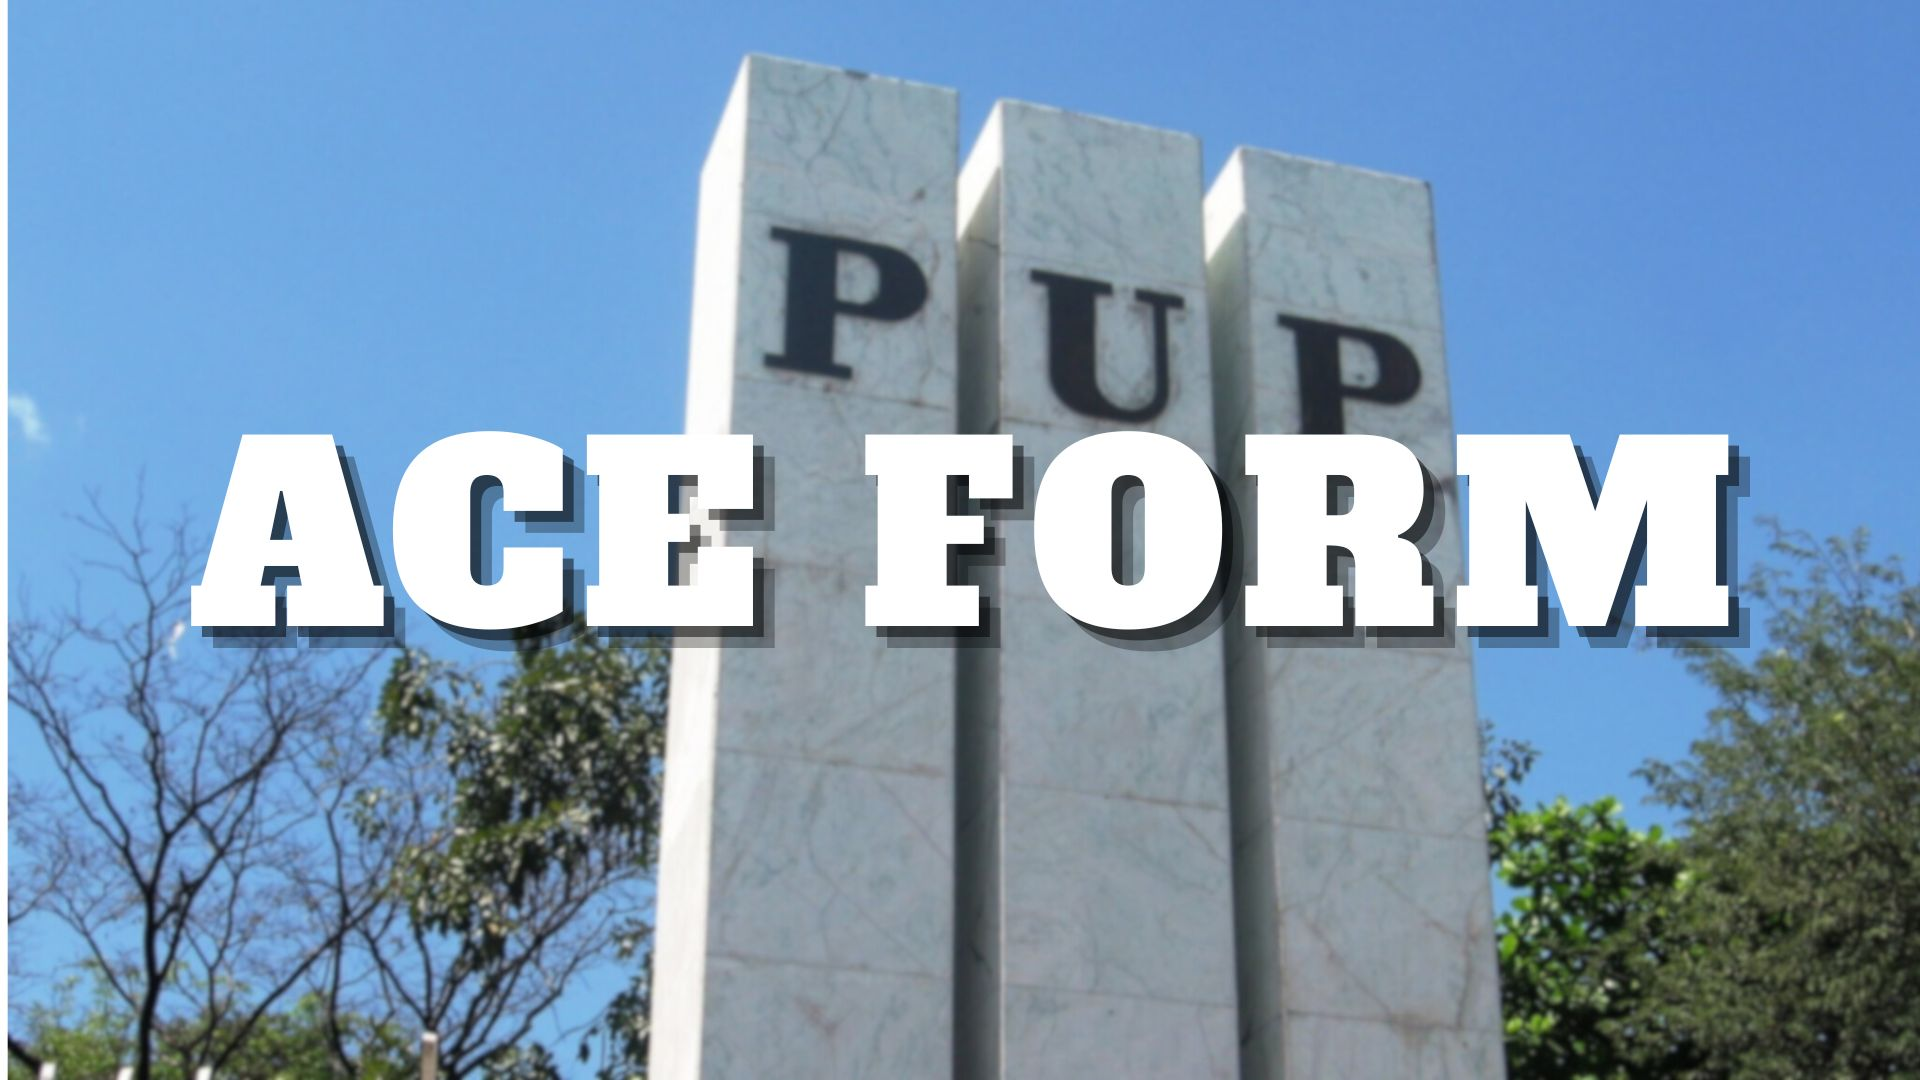
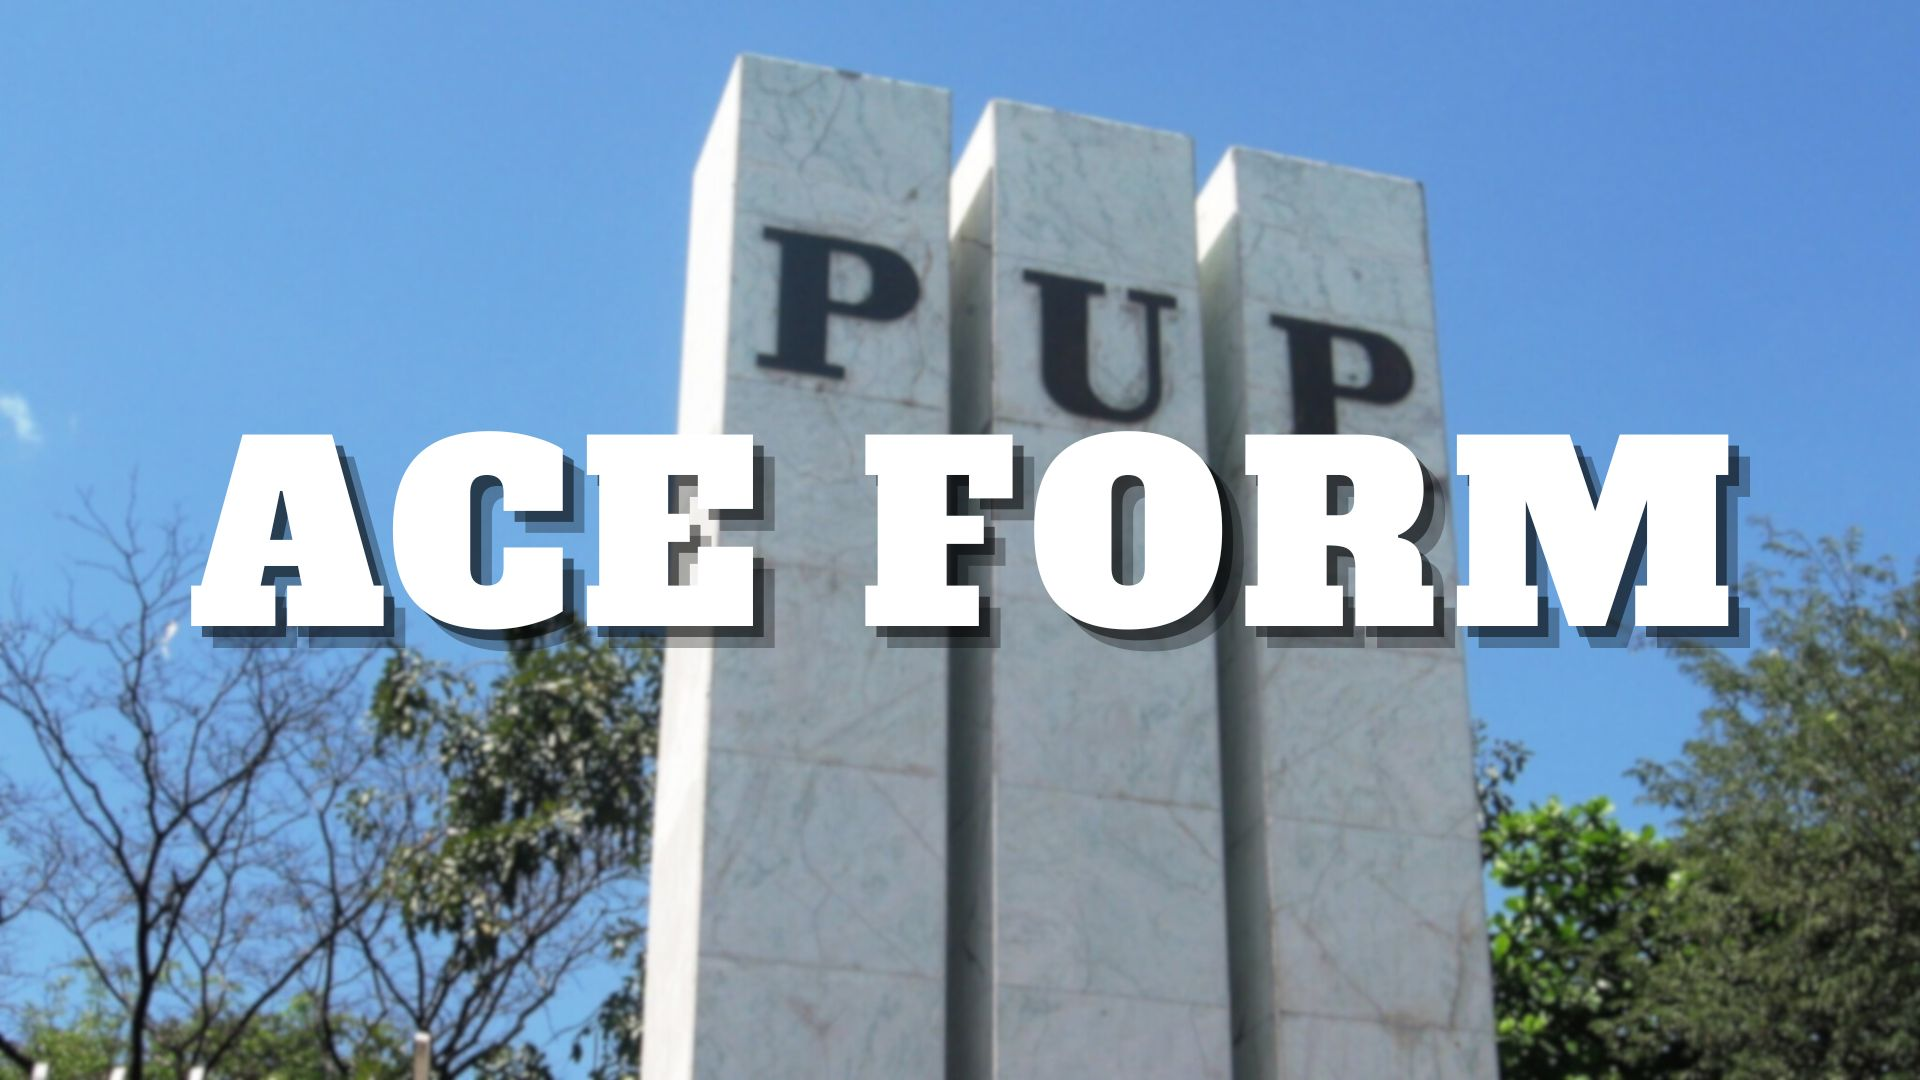
Update

diff --git a/Project/Task 1.html b/Project/Task 1.html
@@ -28,7 +28,7 @@
             </div>
             <div style="text-align: center;">
                 <br>
-                <img src="https://github.com/Zerooaa/Web-Dev-Project/blob/main/Images/Backgroun%201.jpg?raw=true" height="590" width="1690">
+                <img src="https://github.com/Zerooaa/Web-Dev-Project/blob/main/Images/Background%201.jpg?raw=true" height="800" width="1690">
             </div>
             <div style="text-align: center;">
                 <br>
